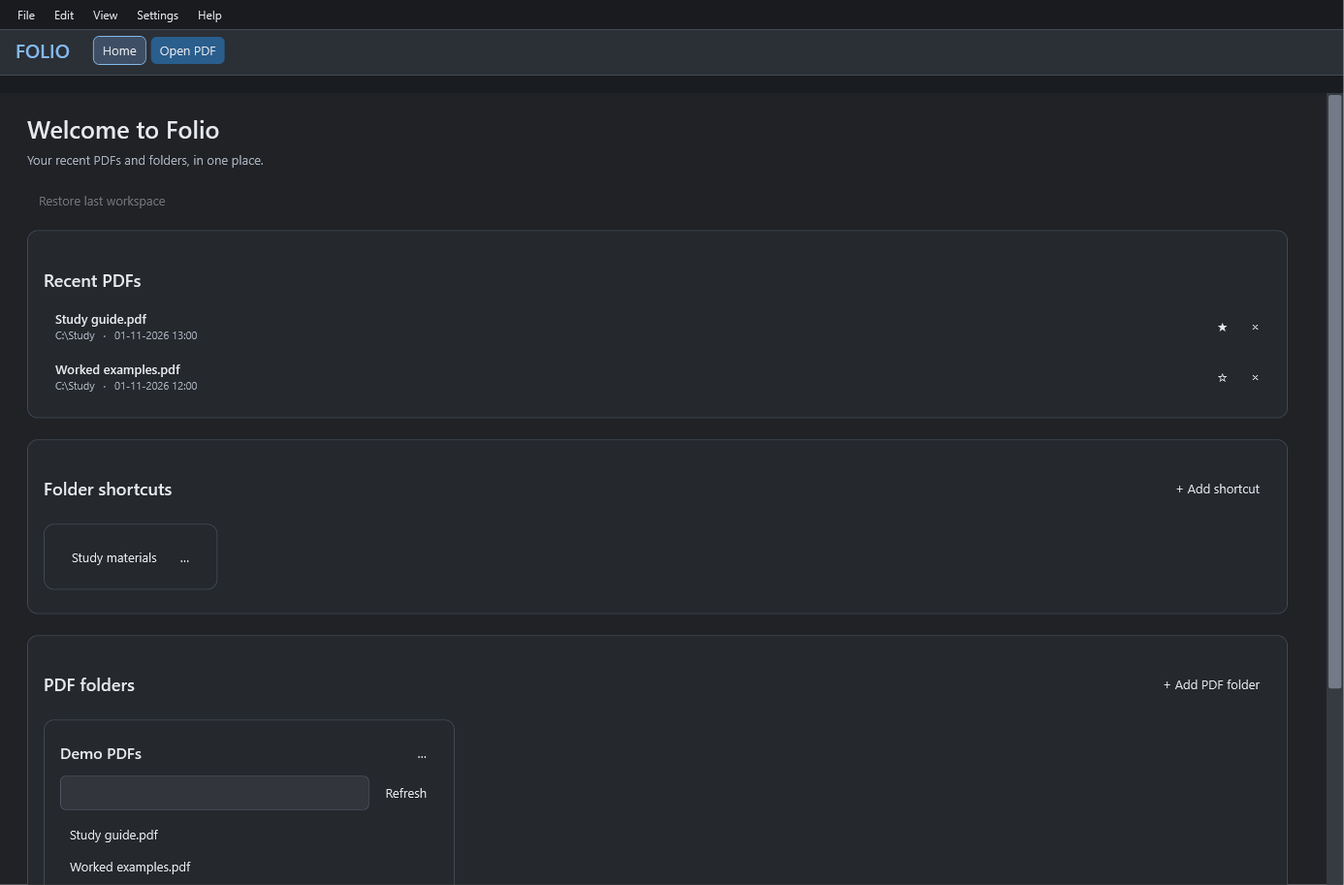
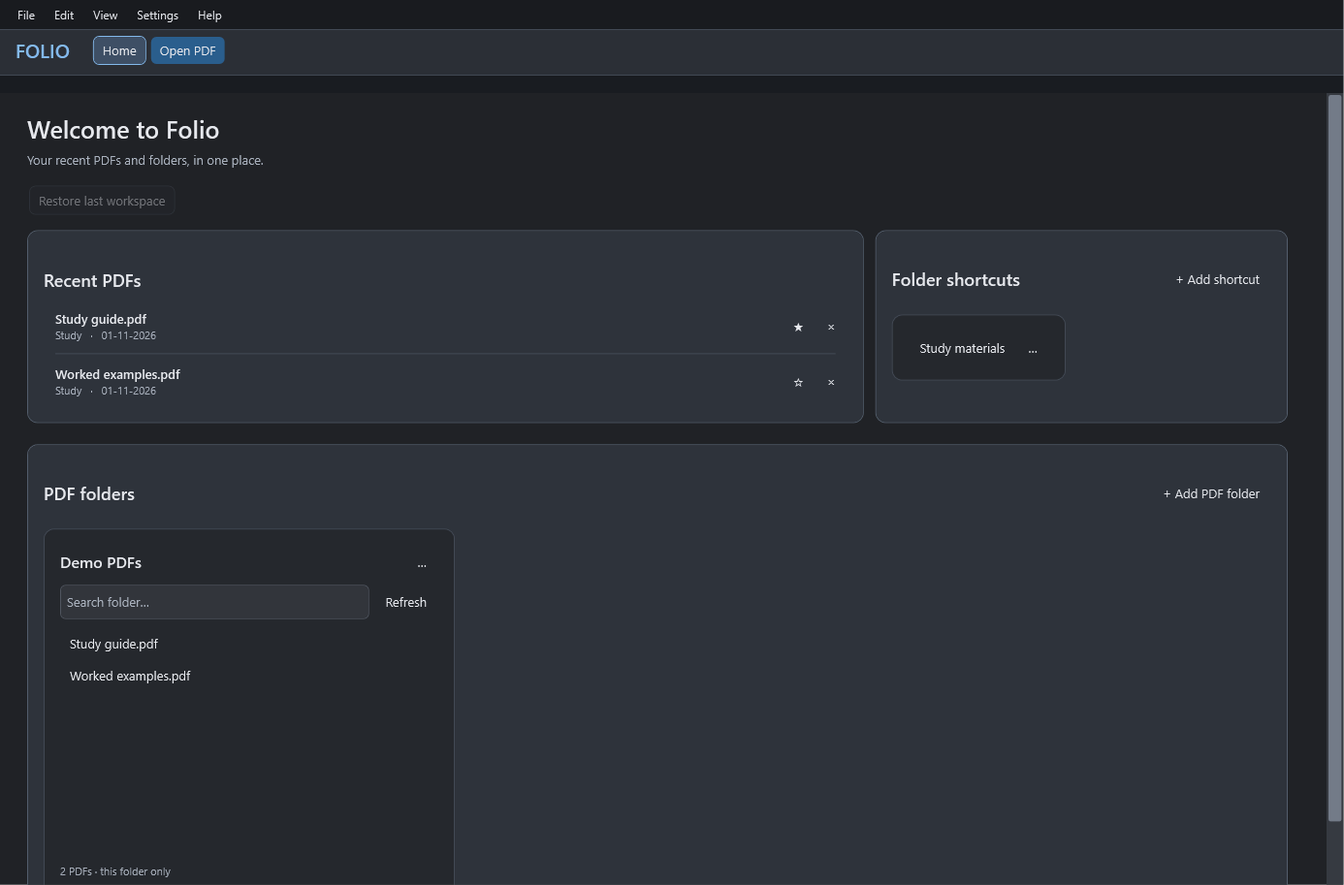
Release Folio 0.5.0 with clearer navigation and refreshed Home

diff --git a/Theme.xaml b/Theme.xaml
@@ -36,7 +36,9 @@
   </Style>
   <Style TargetType="ComboBoxItem"><Setter Property="Foreground" Value="{StaticResource TextBrush}"/><Setter Property="Padding" Value="9,5"/><Setter Property="Template"><Setter.Value><ControlTemplate TargetType="ComboBoxItem"><Border x:Name="Item" Background="Transparent" Padding="{TemplateBinding Padding}"><ContentPresenter/></Border><ControlTemplate.Triggers><Trigger Property="IsHighlighted" Value="True"><Setter TargetName="Item" Property="Background" Value="#48576A"/></Trigger></ControlTemplate.Triggers></ControlTemplate></Setter.Value></Setter></Style>
   <Style TargetType="Menu"><Setter Property="Background" Value="#202226"/><Setter Property="Foreground" Value="{StaticResource TextBrush}"/></Style>
-  <Style TargetType="ContextMenu"><Setter Property="Background" Value="#292D33"/><Setter Property="Foreground" Value="{StaticResource TextBrush}"/><Setter Property="BorderBrush" Value="#4A5059"/></Style>
+  <Style TargetType="ContextMenu"><Setter Property="Background" Value="#292D33"/><Setter Property="Foreground" Value="{StaticResource TextBrush}"/><Setter Property="BorderBrush" Value="#4A5059"/>
+    <Setter Property="Template"><Setter.Value><ControlTemplate TargetType="ContextMenu"><Border Background="{TemplateBinding Background}" BorderBrush="{TemplateBinding BorderBrush}" BorderThickness="1" CornerRadius="6" Padding="4"><ItemsPresenter KeyboardNavigation.DirectionalNavigation="Cycle"/></Border></ControlTemplate></Setter.Value></Setter>
+  </Style>
   <Style TargetType="MenuItem">
     <Setter Property="Foreground" Value="{StaticResource TextBrush}"/><Setter Property="Background" Value="Transparent"/><Setter Property="Padding" Value="10,6"/>
     <Setter Property="Template"><Setter.Value><ControlTemplate TargetType="MenuItem"><Grid>

diff --git a/HomePage.cs b/HomePage.cs
@@ -24,12 +24,32 @@ internal sealed class HomePage : ScrollViewer
         page.Children.Add(new TextBlock { Text = "Welcome to Folio", FontSize = 25, FontWeight = FontWeights.SemiBold });
         page.Children.Add(new TextBlock { Text = "Your recent PDFs and folders, in one place.", Foreground = Ui.Muted, Margin = new Thickness(0, 7, 0, 16) });
         restore = Ui.Button("Restore last workspace", "Reopen your previous tabs and split views", restoreWorkspace);
+        restore.Background = Ui.Surface; restore.BorderBrush = Ui.Line;
         restore.HorizontalAlignment = HorizontalAlignment.Left; page.Children.Add(restore);
         var recentSection = new StackPanel(); recentSection.Children.Add(Heading("Recent PDFs"));
         var recentScroll = new ScrollViewer { Content = recent, MaxHeight = 320, VerticalScrollBarVisibility = ScrollBarVisibility.Auto };
-        GentleScroll(recentScroll); recentSection.Children.Add(recentScroll); page.Children.Add(Card(recentSection));
-        var shortcutSection = new StackPanel(); shortcutSection.Children.Add(Section("Folder shortcuts", "+ Add shortcut", () => AddFolder(false))); shortcutSection.Children.Add(shortcuts); page.Children.Add(Card(shortcutSection));
-        var folderSection = new StackPanel(); folderSection.Children.Add(Section("PDF folders", "+ Add PDF folder", () => AddFolder(true))); folderSection.Children.Add(folders); page.Children.Add(Card(folderSection));
+        GentleScroll(recentScroll); recentSection.Children.Add(recentScroll); var recentCard = Card(recentSection);
+        var shortcutSection = new StackPanel(); shortcutSection.Children.Add(Section("Folder shortcuts", "+ Add shortcut", () => AddFolder(false))); shortcutSection.Children.Add(shortcuts); var shortcutCard = Card(shortcutSection);
+        var top = new Grid();
+        top.ColumnDefinitions.Add(new ColumnDefinition { Width = new GridLength(2, GridUnitType.Star) });
+        top.ColumnDefinitions.Add(new ColumnDefinition());
+        top.RowDefinitions.Add(new RowDefinition { Height = GridLength.Auto });
+        top.RowDefinitions.Add(new RowDefinition { Height = GridLength.Auto });
+        top.Children.Add(recentCard); top.Children.Add(shortcutCard); page.Children.Add(top);
+        top.SizeChanged += (_, _) =>
+        {
+            var wide = top.ActualWidth >= 1000;
+            Grid.SetColumnSpan(recentCard, wide ? 1 : 2);
+            Grid.SetColumn(shortcutCard, wide ? 1 : 0);
+            Grid.SetRow(shortcutCard, wide ? 0 : 1);
+            Grid.SetColumnSpan(shortcutCard, wide ? 1 : 2);
+        };
+        var folderSection = new StackPanel(); folderSection.Children.Add(Section("PDF folders", "+ Add PDF folder", () => AddFolder(true))); folderSection.Children.Add(folders); var folderCard = Card(folderSection); page.Children.Add(folderCard);
+        foreach (var section in new[] { recentCard, shortcutCard, folderCard })
+        {
+            section.Background = new SolidColorBrush(Color.FromRgb(46, 51, 59));
+            section.BorderBrush = new SolidColorBrush(Color.FromRgb(83, 94, 108));
+        }
         GentleScroll(this);
         RefreshRecent(); RefreshFolders();
     }
@@ -63,6 +83,7 @@ internal sealed class HomePage : ScrollViewer
         if (library.Data.Recent.Count == 0) { recent.Children.Add(new TextBlock { Text = "Open a PDF to start your recent list.", Foreground = Ui.Muted, Margin = new Thickness(12) }); return; }
         foreach (var item in library.Data.Recent.OrderByDescending(x => x.Pinned).ThenByDescending(x => x.Opened))
         {
+            if (recent.Children.Count > 0) recent.Children.Add(new Border { Height = 1, Background = Ui.Line, Margin = new Thickness(12, 2, 12, 2) });
             var row = new DockPanel { Margin = new Thickness(0, 2, 0, 2) };
             var remove = Ui.Button("×", "Remove from this list (keeps the PDF file)", () => { library.Data.Recent.Remove(item); library.Save(); RefreshRecent(); });
             DockPanel.SetDock(remove, Dock.Right); row.Children.Add(remove);
@@ -74,7 +95,9 @@ internal sealed class HomePage : ScrollViewer
             DockPanel.SetDock(pin, Dock.Right); row.Children.Add(pin);
             var label = new StackPanel();
             label.Children.Add(new TextBlock { Text = Path.GetFileName(item.Path), TextTrimming = TextTrimming.CharacterEllipsis, FontWeight = FontWeights.SemiBold });
-            label.Children.Add(new TextBlock { Text = $"{Path.GetDirectoryName(item.Path)}   ·   {item.Opened.ToLocalTime():g}", Foreground = Ui.Muted, FontSize = 11, TextTrimming = TextTrimming.CharacterEllipsis });
+            var directory = Path.GetDirectoryName(item.Path);
+            var folderName = string.IsNullOrEmpty(directory) ? "" : new DirectoryInfo(directory).Name;
+            label.Children.Add(new TextBlock { Text = $"{folderName}   ·   {item.Opened.ToLocalTime():d}", Foreground = Ui.Muted, FontSize = 11, TextTrimming = TextTrimming.CharacterEllipsis });
             var button = Ui.Button("", item.Path, () => open(item.Path)); button.Content = label; button.HorizontalContentAlignment = HorizontalAlignment.Left;
             AutomationProperties.SetName(button, "Open " + Path.GetFileName(item.Path)); row.Children.Add(button); recent.Children.Add(row);
         }
@@ -126,6 +149,9 @@ internal sealed class HomePage : ScrollViewer
         DockPanel.SetDock(title, Dock.Top); panel.Children.Add(title);
         var searchRow = new DockPanel { Margin = new Thickness(0, 7, 0, 7) };
         var search = new TextBox { ToolTip = "Filter PDF filenames", Margin = new Thickness(0, 0, 5, 0) };
+        var searchField = new Grid(); searchField.Children.Add(search);
+        var placeholder = new TextBlock { Text = "Search folder…", Foreground = Ui.Muted, Margin = new Thickness(7, 0, 12, 0), VerticalAlignment = VerticalAlignment.Center, IsHitTestVisible = false };
+        searchField.Children.Add(placeholder);
         AutomationProperties.SetName(search, "Filter " + folder.Name);
         var status = new TextBlock { Foreground = Ui.Muted, FontSize = 11, Margin = new Thickness(0, 4, 0, 2), TextWrapping = TextWrapping.Wrap };
         DockPanel.SetDock(status, Dock.Bottom); panel.Children.Add(status);
@@ -152,9 +178,11 @@ internal sealed class HomePage : ScrollViewer
             { if (request == ticket) { paths = []; list.ItemsSource = null; status.Text = "Cannot read folder: " + e.Message; } }
             finally { if (request == ticket) refresh.IsEnabled = true; }
         }
-        refresh = Ui.Button("Refresh", "Reload PDFs in this folder", Load); DockPanel.SetDock(refresh, Dock.Right); searchRow.Children.Add(refresh); searchRow.Children.Add(search);
+        refresh = Ui.Button("Refresh", "Reload PDFs in this folder", Load); DockPanel.SetDock(refresh, Dock.Right); searchRow.Children.Add(refresh); searchRow.Children.Add(searchField);
         DockPanel.SetDock(searchRow, Dock.Top); panel.Children.Add(searchRow); panel.Children.Add(list);
-        search.TextChanged += (_, _) => Filter();
+        void UpdatePlaceholder() => placeholder.Visibility = search.Text.Length == 0 && !search.IsKeyboardFocusWithin ? Visibility.Visible : Visibility.Collapsed;
+        search.IsKeyboardFocusWithinChanged += (_, _) => UpdatePlaceholder();
+        search.TextChanged += (_, _) => { UpdatePlaceholder(); Filter(); };
         list.PreviewMouseWheel += (_, e) =>
         {
             var scroll = FindScroll(list); if (scroll == null) return;

diff --git a/SelfTest.cs b/SelfTest.cs
@@ -36,6 +36,10 @@ internal static class SelfTest
             Check(file.Engine.Count == 2, "Open multi-page PDF");
             var image = file.Engine.Render(0, 800);
             Check(image.PixelWidth == 800 && image.PixelHeight == 1200, "Native page rendering");
+            var linkBounds = file.Engine.LinkBounds(0, 800, 1200);
+            Check(linkBounds.Count == 2 && linkBounds[0].Contains(new Point(140, 350)), "Visible link bounds match clickable areas");
+            var linkPixel = new byte[4]; image.CopyPixels(new Int32Rect(40, 300, 1, 1), linkPixel, 4, 0);
+            Check(linkPixel[0] == 205 && linkPixel[1] == 125 && linkPixel[2] == 45 && !file.Dirty, "Link frames render without modifying PDF");
             var watch = Stopwatch.StartNew();
             for (var i = 0; i < 1000; i++) Check(ReferenceEquals(image, file.Engine.Render(0, 800)), "cache");
             watch.Stop(); results.RemoveAll(x => x == "PASS: cache");
@@ -117,6 +121,15 @@ internal static class SelfTest
                 group.Remove(second); var detached = new TabGroup(); detached.Add(second);
                 Check(group.Tabs.Count == 2 && detached.Tabs.Count == 1 && second.Top.Page == 1, "Ungroup preserves PDF reading position");
                 sidebar.Bind(first); Check(sidebar.DocumentName == Path.GetFileName(file.Path), "Shared bookmark sidebar binds active PDF");
+                var tree = sidebar.Children.OfType<System.Windows.Controls.TreeView>().Single();
+                var bookmarkText = (System.Windows.Controls.TextBlock)((System.Windows.Controls.TreeViewItem)tree.Items[0]).Header;
+                bookmarkText.Text = "A long bookmark title that needs several lines in a narrow sidebar";
+                var sidebarHost = new Window { Content = sidebar, Width = 240, Height = 600, ShowActivated = false, ShowInTaskbar = false };
+                sidebarHost.Show(); sidebarHost.UpdateLayout();
+                Check(bookmarkText.ActualHeight > bookmarkText.FontSize * 2 && bookmarkText.ActualWidth < tree.ActualWidth, "Long bookmarks wrap within a narrow sidebar");
+                sidebar.TextSize = 18; sidebarHost.UpdateLayout();
+                Check(bookmarkText.FontSize == 18, "Bookmark text inherits adjusted size");
+                sidebarHost.Content = null; sidebarHost.Close();
                 sidebar.Bind(null); Check(sidebar.DocumentName == "Select a PDF", "Shared sidebar clears on close");
                 group.Remove(third); group.Remove(first); detached.Remove(second);
             }
@@ -148,11 +161,26 @@ internal static class SelfTest
             restoredWindow.Close();
             var libraryPath = Path.Combine(folder, "test-library.json");
             var library = new UserLibrary(libraryPath);
+            var homeLayout = new HomePage(library, _ => { }, () => { });
+            var homeHost = new Window { Content = homeLayout, Width = 1400, Height = 800, ShowActivated = false, ShowInTaskbar = false };
+            try
+            {
+                homeHost.Show(); homeHost.UpdateLayout();
+                var topRow = ((System.Windows.Controls.StackPanel)homeLayout.Content).Children.OfType<System.Windows.Controls.Grid>().Single();
+                var leftCard = (FrameworkElement)topRow.Children[0]; var rightCard = (FrameworkElement)topRow.Children[1];
+                Check(System.Windows.Controls.Grid.GetColumn(rightCard) == 1 && leftCard.ActualWidth > rightCard.ActualWidth * 1.8, "Wide Home places recent PDFs and shortcuts side by side at roughly 2:1");
+                homeHost.Width = 800; homeHost.UpdateLayout();
+                Check(System.Windows.Controls.Grid.GetRow(rightCard) == 1 && Math.Abs(leftCard.ActualWidth - rightCard.ActualWidth) < 1, "Narrow Home stacks recent PDFs and shortcuts at full width");
+                homeHost.Width = 1400; homeHost.UpdateLayout();
+                Check(System.Windows.Controls.Grid.GetRow(rightCard) == 0 && System.Windows.Controls.Grid.GetColumn(rightCard) == 1, "Home restores side-by-side layout when widened");
+            }
+            finally { homeHost.Content = null; homeHost.Close(); }
             Check(library.Data.ScrollSpeed == 0.5, "Default scroll speed is 50 percent");
             library.Opened(path); library.Data.Recent[0] = library.Data.Recent[0] with { Pinned = true }; library.Save(); library.Opened(path);
             Check(library.Data.Recent.Count == 1 && library.Data.Recent[0].Pinned, "Recent PDFs deduplicate and retain pins when reopened");
-            library.Data.ScrollSpeed = 0.3; library.Data.Shortcuts.Add(new(folder, "Exams")); library.Data.PdfFolders.Add(new(folder, "PDFs")); library.Save();
+            library.Data.ScrollSpeed = 0.3; library.Data.BookmarkTextSize = 18; library.Data.Shortcuts.Add(new(folder, "Exams")); library.Data.PdfFolders.Add(new(folder, "PDFs")); library.Save();
             var persisted = new UserLibrary(libraryPath);
+            Check(persisted.Data.BookmarkTextSize == 18, "Bookmark text size persists");
             Check(persisted.Data.ScrollSpeed == 0.3 && persisted.Data.Shortcuts[0].Name == "Exams" && persisted.Data.PdfFolders[0].Path == folder, "Scroll setting, folder shortcuts and PDF panels persist");
             persisted.Data.Recent.Clear(); persisted.Save(); Check(File.Exists(path), "Removing a recent PDF never deletes the document");
             File.WriteAllText(Path.Combine(folder, "ignore.txt"), "not a PDF");
@@ -192,6 +220,11 @@ internal static class SelfTest
                     Check(reader.Page == 2, "Switching to single-page mode preserves page position");
                     reader.Continuous = true; Wait(() => (reader.Scroll.Content as ContinuousSurface)?.Layout != null);
                     Check(reader.Page == 2, "Switching back to continuous mode preserves page position");
+                    reader.SetZoom(2); Wait(() => reader.Scroll.ScrollableWidth > 100);
+                    reader.Scroll.ScrollToHorizontalOffset(100); Wait(() => Math.Abs(reader.Scroll.HorizontalOffset - 100) < 1);
+                    reader.ScrollHorizontally(120); Wait(() => Math.Abs(reader.Scroll.HorizontalOffset - 124) < 1);
+                    reader.ScrollHorizontally(-60); Wait(() => Math.Abs(reader.Scroll.HorizontalOffset - 112) < 1);
+                    Check(true, "Horizontal gestures preserve direction, proportional deltas and scroll speed");
                 }
                 finally { host.Content = null; host.Close(); }
             }

diff --git a/MainWindow.cs b/MainWindow.cs
@@ -42,12 +42,14 @@ internal sealed class MainWindow : Window
     {
         this.workspacePath = workspacePath ?? Path.Combine(Environment.GetFolderPath(Environment.SpecialFolder.LocalApplicationData), "Folio", "workspace.json");
         library = new UserLibrary(Path.Combine(Path.GetDirectoryName(this.workspacePath)!, "library.json"));
+        bookmarks.TextSize = library.Data.BookmarkTextSize;
+        bookmarks.TextSizeChanged += size => { library.Data.BookmarkTextSize = size; library.Save(); };
         home = new HomePage(library, path => Open(path), RestoreWorkspace);
         Title = "Folio"; Width = 1400; Height = 900; MinWidth = 800; MinHeight = 480;
         Icon = new System.Windows.Media.Imaging.BitmapImage(new Uri("pack://application:,,,/Assets/Folio.ico"));
         Background = new SolidColorBrush(Color.FromRgb(32, 34, 38)); Foreground = new SolidColorBrush(Color.FromRgb(230, 232, 237));
         FontFamily = new FontFamily("Segoe UI"); FontSize = 13;
-        SourceInitialized += (_, _) => { var on = 1; DwmSetWindowAttribute(new WindowInteropHelper(this).Handle, 20, ref on, sizeof(int)); };
+        SourceInitialized += (_, _) => { var on = 1; var handle = new WindowInteropHelper(this).Handle; DwmSetWindowAttribute(handle, 20, ref on, sizeof(int)); HwndSource.FromHwnd(handle)?.AddHook(HorizontalWheel); };
         var root = new DockPanel { Background = Background }; Content = root;
         var menu = new Menu { Background = (Brush)new BrushConverter().ConvertFromString("#191B1F")!, Padding = new Thickness(8, 1, 8, 1) };
         var file = new MenuItem { Header = "_File" };
@@ -140,7 +142,8 @@ internal sealed class MainWindow : Window
                 var label = new TextBlock { MaxWidth = 195, TextTrimming = TextTrimming.CharacterEllipsis, Margin = new Thickness(10, 7, 4, 7), VerticalAlignment = VerticalAlignment.Center };
                 inner.Children.Add(label);
                 var close = Ui.Button("×", "Close this PDF · Ctrl+W", () => CloseTab(doc)); close.Padding = new Thickness(7, 2, 7, 2); inner.Children.Add(close);
-                var head = new Border { Child = inner, CornerRadius = new CornerRadius(8), BorderThickness = new Thickness(2), AllowDrop = true, Focusable = true, Cursor = Cursors.Hand };
+                var head = new Border { Child = inner, CornerRadius = new CornerRadius(8), BorderThickness = new Thickness(2), Margin = new Thickness(3, 0, 3, 0), AllowDrop = true, Focusable = true, Cursor = Cursors.Hand };
+                head.MouseEnter += (_, _) => UpdateTitle(); head.MouseLeave += (_, _) => UpdateTitle();
                 headers[doc] = head; row.Children.Add(head);
                 AutomationProperties.SetName(head, System.IO.Path.GetFileName(doc.File.Path));
                 var context = new ContextMenu();
@@ -187,6 +190,22 @@ internal sealed class MainWindow : Window
         UpdateTitle();
     }
     private static int Edge(FrameworkElement head, double x) => x < head.ActualWidth * 0.2 ? -1 : x > head.ActualWidth * 0.8 ? 1 : 0;
+    private IntPtr HorizontalWheel(IntPtr hwnd, int message, IntPtr wParam, IntPtr lParam, ref bool handled)
+    {
+        if (message != 0x020E) return IntPtr.Zero; // WM_MOUSEHWHEEL is not exposed by WPF's MouseWheel event.
+        var packed = lParam.ToInt64();
+        var point = PointFromScreen(new Point((short)(packed & 0xffff), (short)((packed >> 16) & 0xffff)));
+        var node = InputHitTest(point) as DependencyObject;
+        while (node != null)
+        {
+            if (node is PageView view)
+            {
+                view.ScrollHorizontally((short)((wParam.ToInt64() >> 16) & 0xffff)); handled = true; break;
+            }
+            node = node is Visual ? VisualTreeHelper.GetParent(node) : LogicalTreeHelper.GetParent(node);
+        }
+        return IntPtr.Zero;
+    }
     private static bool IsButton(DependencyObject? node)
     {
         while (node != null) { if (node is ButtonBase) return true; node = VisualTreeHelper.GetParent(node); }
@@ -194,7 +213,8 @@ internal sealed class MainWindow : Window
     }
     private void ClearDropFeedback()
     {
-        foreach (var (doc, head) in headers) { head.BorderThickness = new Thickness(2); head.BorderBrush = Brushes.Transparent; }
+        foreach (var head in headers.Values) head.BorderThickness = new Thickness(2);
+        UpdateTitle();
         dropHint.Text = "Drag a tab onto another to read side by side";
     }
     private void RemoveFromGroup(DocumentTab tab)
@@ -257,12 +277,13 @@ internal sealed class MainWindow : Window
         {
             ((TextBlock)((StackPanel)head.Child).Children[0]).Text = Path.GetFileName(doc.File.Path) + (doc.File.Dirty ? " •" : "");
             head.ToolTip = doc.File.Path;
-            head.Background = doc == Current ? new SolidColorBrush(Color.FromRgb(67, 73, 83)) : Brushes.Transparent;
+            head.Background = doc == Current ? new SolidColorBrush(Color.FromRgb(52, 77, 102)) : head.IsMouseOver ? new SolidColorBrush(Color.FromRgb(65, 69, 77)) : Ui.Surface;
+            head.BorderBrush = GroupOf(doc).Tabs.Count > 1 ? Brushes.Transparent : doc == Current || head.IsKeyboardFocused ? Ui.Accent : Ui.Line;
         }
         foreach (var (group, border) in groupHeaders)
         {
             border.Background = new SolidColorBrush(!homeVisible && group == activeGroup ? Color.FromRgb(44, 48, 54) : Color.FromRgb(26, 28, 32));
-            border.BorderBrush = !homeVisible && group == activeGroup ? new SolidColorBrush(Color.FromRgb(76, 98, 122)) : Brushes.Transparent;
+            border.BorderBrush = group.Tabs.Count > 1 ? (!homeVisible && group == activeGroup ? Ui.Accent : Ui.Line) : Brushes.Transparent;
         }
         Title = Current == null ? "Folio — Home" : $"{Path.GetFileName(Current.File.Path)}{(Current.File.Dirty ? " •" : "")} — Folio";
     }

diff --git a/PdfEngine.cs b/PdfEngine.cs
@@ -81,8 +81,18 @@ internal sealed class PdfEngine : IDisposable
                 if (bitmap == IntPtr.Zero) throw new OutOfMemoryException("Unable to allocate a page image.");
                 Native.FPDFBitmap_FillRect(bitmap, 0, 0, width, height, 0xffffffff);
                 Native.FPDF_RenderPageBitmap(bitmap, page, 0, 0, width, height, 0, 1);
+                foreach (var bounds in LinkBounds(index, width, height))
+                {
+                    var left = Math.Clamp((int)bounds.Left, 0, width); var top = Math.Clamp((int)bounds.Top, 0, height);
+                    var right = Math.Clamp((int)bounds.Right, 0, width); var bottom = Math.Clamp((int)bounds.Bottom, 0, height);
+                    if (right <= left || bottom <= top) continue;
+                    Native.FPDFBitmap_FillRect(bitmap, left, top, right - left, 1, 0xff2d7dcd);
+                    Native.FPDFBitmap_FillRect(bitmap, left, bottom - 1, right - left, 1, 0xff2d7dcd);
+                    Native.FPDFBitmap_FillRect(bitmap, left, top, 1, bottom - top, 0xff2d7dcd);
+                    Native.FPDFBitmap_FillRect(bitmap, right - 1, top, 1, bottom - top, 0xff2d7dcd);
+                }
                 var stride = Native.FPDFBitmap_GetStride(bitmap);
-                var image = BitmapSource.Create(width, height, 96, 96, PixelFormats.Bgr32, null,
+                BitmapSource image = BitmapSource.Create(width, height, 96, 96, PixelFormats.Bgr32, null,
                     Native.FPDFBitmap_GetBuffer(bitmap), stride * height, stride);
                 image.Freeze();
                 while (order.Count > 0 && cacheBytes + stride * (long)height > 64 * 1024 * 1024)
@@ -145,6 +155,26 @@ internal sealed class PdfEngine : IDisposable
             finally { Native.FPDF_ClosePage(page); }
         }
     }
+    public List<Rect> LinkBounds(int index, int width, int height)
+    {
+        lock (Gate)
+        {
+            var page = Page(index);
+            try
+            {
+                var result = new List<Rect>(); var position = 0;
+                while (Native.FPDFLink_Enumerate(page, ref position, out var link) != 0)
+                {
+                    if (Native.FPDFLink_GetAnnotRect(link, out var rect) == 0) continue;
+                    Native.FPDF_PageToDevice(page, 0, 0, width, height, 0, rect.Left, rect.Top, out var x1, out var y1);
+                    Native.FPDF_PageToDevice(page, 0, 0, width, height, 0, rect.Right, rect.Bottom, out var x2, out var y2);
+                    result.Add(new Rect(new Point(x1, y1), new Point(x2, y2)));
+                }
+                return result;
+            }
+            finally { Native.FPDF_ClosePage(page); }
+        }
+    }
     public Point ConvertPoint(int index, Point point, int width, int height, bool toPdf)
     {
         lock (Gate)
@@ -201,6 +231,9 @@ internal static class Native
     [DllImport(Dll)] internal static extern int FPDF_DeviceToPage(IntPtr page, int x, int y, int width, int height, int rotate, int dx, int dy, out double px, out double py);
     [DllImport(Dll)] internal static extern int FPDF_PageToDevice(IntPtr page, int x, int y, int width, int height, int rotate, double px, double py, out int dx, out int dy);
     [DllImport(Dll)] internal static extern IntPtr FPDFLink_GetLinkAtPoint(IntPtr page, double x, double y);
+    [StructLayout(LayoutKind.Sequential)] internal struct LinkRect { public float Left, Top, Right, Bottom; }
+    [DllImport(Dll)] internal static extern int FPDFLink_Enumerate(IntPtr page, ref int position, out IntPtr link);
+    [DllImport(Dll)] internal static extern int FPDFLink_GetAnnotRect(IntPtr link, out LinkRect rect);
     [DllImport(Dll)] internal static extern IntPtr FPDFLink_GetDest(IntPtr doc, IntPtr link);
     [DllImport(Dll)] internal static extern IntPtr FPDFLink_GetAction(IntPtr link);
     [DllImport(Dll)] internal static extern IntPtr FPDFAction_GetDest(IntPtr doc, IntPtr action);

diff --git a/BookmarkSidebar.cs b/BookmarkSidebar.cs
@@ -14,6 +14,8 @@ internal sealed class BookmarkSidebar : DockPanel, IDisposable
     private readonly TextBlock heading = new() { Margin = new Thickness(14, 0, 14, 12), TextWrapping = TextWrapping.Wrap, Foreground = Ui.Accent };
     public string DocumentName => heading.Text;
     public event Action? HideRequested;
+    public event Action<double>? TextSizeChanged;
+    public double TextSize { get => bookmarks.FontSize; set => bookmarks.FontSize = Math.Clamp(value, 10, 24); }
     public BookmarkSidebar()
     {
         Background = new SolidColorBrush(Color.FromRgb(26, 30, 36)); bookmarks.Background = Background;
@@ -23,6 +25,11 @@ internal sealed class BookmarkSidebar : DockPanel, IDisposable
         var labels = new StackPanel(); labels.Children.Add(title); labels.Children.Add(heading); panelHeader.Children.Add(labels);
         var headerBorder = Ui.Band(panelHeader, "#202730"); SetDock(headerBorder, Dock.Top); Children.Add(headerBorder);
         bookmarks.BorderThickness = new Thickness(0, 0, 1, 0); bookmarks.BorderBrush = Ui.Line;
+        ScrollViewer.SetHorizontalScrollBarVisibility(bookmarks, ScrollBarVisibility.Disabled);
+        var textTools = new StackPanel { Orientation = Orientation.Horizontal, Margin = new Thickness(8, 0, 8, 4) };
+        textTools.Children.Add(Ui.Button("A−", "Smaller bookmark text", () => ChangeTextSize(-1)));
+        textTools.Children.Add(Ui.Button("A+", "Larger bookmark text", () => ChangeTextSize(1)));
+        SetDock(textTools, Dock.Top); Children.Add(textTools);
         var actions = new WrapPanel { Margin = new Thickness(8) };
         actions.Children.Add(Ui.Button("+ Bookmark", "Bookmark current page (Ctrl+B)", () => AddBookmark(false)));
         actions.Children.Add(Ui.Button("Rename", "Rename selected bookmark", RenameBookmark));
@@ -62,6 +69,11 @@ internal sealed class BookmarkSidebar : DockPanel, IDisposable
         if (document != null) document.File.Changed += RefreshBookmarks;
         RefreshBookmarks();
     }
+    private void ChangeTextSize(int delta)
+    {
+        TextSize += delta;
+        TextSizeChanged?.Invoke(TextSize);
+    }
     private void RefreshBookmarks()
     {
         bookmarks.Items.Clear(); heading.Text = document == null ? "Select a PDF" : System.IO.Path.GetFileName(File.Path);
@@ -70,7 +82,7 @@ internal sealed class BookmarkSidebar : DockPanel, IDisposable
         {
             foreach (PdfOutline outline in collection)
             {
-                var item = new TreeViewItem { Header = outline.Title, Tag = outline, IsExpanded = outline.Opened, ToolTip = outline.Title };
+                var item = new TreeViewItem { Header = new TextBlock { Text = outline.Title, TextWrapping = TextWrapping.Wrap }, Tag = outline, IsExpanded = outline.Opened, ToolTip = outline.Title };
                 parent.Items.Add(item); Add(item, outline.Outlines);
             }
         }

diff --git a/UserLibrary.cs b/UserLibrary.cs
@@ -9,6 +9,7 @@ internal sealed class LibraryData
 {
     public double ScrollSpeed { get; set; } = 0.5;
     public bool ContinuousScrolling { get; set; } = true;
+    public double BookmarkTextSize { get; set; } = 12;
     public List<RecentPdf> Recent { get; set; } = new();
     public List<SavedFolder> Shortcuts { get; set; } = new();
     public List<SavedFolder> PdfFolders { get; set; } = new();
@@ -26,6 +27,7 @@ internal sealed class UserLibrary
         catch (Exception e) when (e is IOException or UnauthorizedAccessException or JsonException)
         { Data = new(); LoadError = $"Could not read Folio's settings: {e.Message}\nThe existing file has been preserved: {path}"; }
         Data.ScrollSpeed = double.IsFinite(Data.ScrollSpeed) ? Math.Clamp(Data.ScrollSpeed, 0.1, 2) : 0.5;
+        Data.BookmarkTextSize = double.IsFinite(Data.BookmarkTextSize) ? Math.Clamp(Data.BookmarkTextSize, 10, 24) : 12;
         Data.Recent = (Data.Recent ?? new()).Where(x => x != null && !string.IsNullOrWhiteSpace(x.Path)).ToList();
         Data.Shortcuts = (Data.Shortcuts ?? new()).Where(x => x != null && !string.IsNullOrWhiteSpace(x.Path)).ToList();
         Data.PdfFolders = (Data.PdfFolders ?? new()).Where(x => x != null && !string.IsNullOrWhiteSpace(x.Path)).ToList();

diff --git a/PageView.cs b/PageView.cs
@@ -343,7 +343,11 @@ internal sealed class PageView : DockPanel, IDisposable
         return new Rect(new Point(Math.Clamp(startRect.X + offset.X, 0, Math.Max(0, paper.Width - startRect.Width)), Math.Clamp(startRect.Y + offset.Y, 0, Math.Max(0, paper.Height - startRect.Height))), startRect.Size);
     }
     private void MouseMovePage(object sender, MouseEventArgs e)
-    { if (anchor != null && overlay.IsMouseCaptured) ShowGhost(DragRect(e.GetPosition(overlay))); }
+    {
+        if (anchor != null && overlay.IsMouseCaptured) ShowGhost(DragRect(e.GetPosition(overlay)));
+        else if (draw.IsChecked != true) overlay.Cursor = File.Engine.Link(Page, e.GetPosition(overlay), (int)paper.Width, (int)paper.Height) != null ? Cursors.Hand : Cursors.Arrow;
+    }
+    internal void ScrollHorizontally(int delta) => Scroll.ScrollToHorizontalOffset(Scroll.HorizontalOffset + delta / 120.0 * 48 * ScrollSpeed);
     private void MouseUpPage(object sender, MouseButtonEventArgs e)
     {
         if (anchor == null) return;

diff --git a/README.md b/README.md
@@ -33,6 +33,13 @@ This is an **early release**, and the installer is currently unsigned. Windows m
 
 ## A closer look
 
+### New in 0.5.0
+- Clearer PDF tabs, with one shared frame around grouped tabs.
+- Bookmark text wraps automatically; A− / A+ adjusts its size and remembers your choice.
+- Horizontal trackpad scrolling and blue outlines around PDF link areas (display-only).
+- A cleaner Home screen with responsive side-by-side sections, recent-file dividers, shorter folder labels and search placeholders.
+- Fully dark context menus, fixing the white strip in folder options.
+
 ### Start where you left off
 ![Folio home with fictional recent documents and folder panels](docs/images/home.png)
 
